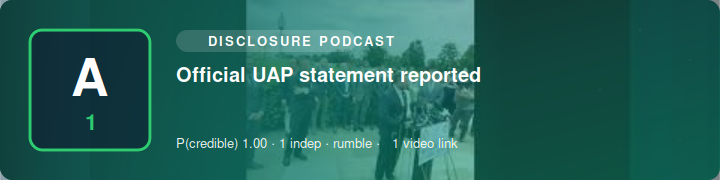
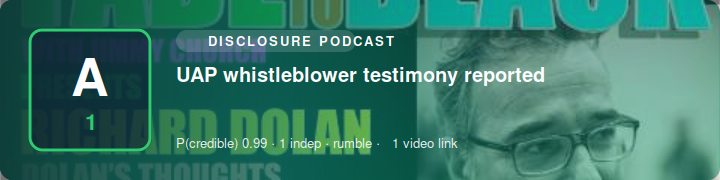
SITREP 2026-08-14 05:20 UTC

diff --git a/index.html b/index.html
@@ -1,1 +1,1 @@
-<!doctype html><meta charset=utf-8><title>Science Bob News — SITREP</title><style>body{font:16px/1.5 system-ui,sans-serif;max-width:760px;margin:2rem auto;padding:0 1rem;color:#111}h1{font-size:1.5rem}h2{margin-top:1.6rem;border-bottom:1px solid #ddd;padding-bottom:.2rem}ul{list-style:none;padding:0}li{margin:.9rem 0}.hl{font-weight:600}.meta{color:#555;font-size:.85rem}.src{font-size:.85rem}.vid{font-size:.85rem;margin-top:.15rem}.card{display:block;max-width:100%;height:auto;border-radius:8px;margin:.4rem 0 .5rem}.upd{background:#fde68a;padding:0 .3rem;border-radius:.2rem;font-size:.75rem}.sub{color:#777;font-size:.85rem}footer{color:#777;font-size:.8rem;margin-top:2rem;border-top:1px solid #ddd;padding-top:.6rem}</style><h1>🛸 Science Bob News</h1><div class="sub">UAP / UFO / USO SITREP · updated 2026-08-14 05:10 UTC · automated</div><h2>Corroborated</h2><ul><li><img class="card" src="https://n4hy.github.io/sciencebobnews-site/card_c_1.svg" alt="" width="720" height="180"><div class="hl">UAP report</div><div class="meta">reliability <b>A1</b> · P(credible)=1.0 · 2 independent source(s) · mastodon</div><div class="src"><a href="https://mastodon.online/@KilleansRow/117086761570315232">@KilleansRow@mastodon.online</a> · <a href="https://mastodon.linkerror.com/@photronicarts/117085058232230276">@photronicarts@mastodon.linkerror.com</a></div></li></ul><h2>Developing / unconfirmed</h2><ul><li><img class="card" src="https://n4hy.github.io/sciencebobnews-site/card_d_1.svg" alt="" width="720" height="180"><div class="hl">Official UAP statement reported (That)</div><div class="meta">reliability <b>A1</b> · P(credible)=1.0 · 1 independent source(s) · mastodon</div><div class="src"><a href="https://mastodon.au/@vibewire/117090074549881678">@vibewire@mastodon.au</a></div></li><li><img class="card" src="https://n4hy.github.io/sciencebobnews-site/card_d_2.svg" alt="" width="720" height="180"><div class="hl">UAP report</div><div class="meta">reliability <b>A1</b> · P(credible)=1.0 · 1 independent source(s) · mastodon</div><div class="src"><a href="https://mastodon.au/@vibewire/117087164265990637">@vibewire@mastodon.au</a></div></li><li><img class="card" src="https://n4hy.github.io/sciencebobnews-site/card_d_3.svg" alt="" width="720" height="180"><div class="hl">Official UAP statement reported</div><div class="meta">reliability <b>A1</b> · P(credible)=1.0 · 1 independent source(s) · mastodon</div><div class="src"><a href="https://mastodon.au/@vibewire/117089625413156296">@vibewire@mastodon.au</a></div></li><li><img class="card" src="https://n4hy.github.io/sciencebobnews-site/card_d_4.svg" alt="" width="720" height="180"><div class="hl">Official UAP statement reported</div><div class="meta">reliability <b>A1</b> · P(credible)=1.0 · 1 independent source(s) · rumble</div><div class="src"><a href="https://www.youtube.com/watch?v=VM8ZX9-ruUM">@podcast</a></div><div class="vid">📹 <a href="https://www.youtube.com/watch?v=VM8ZX9-ruUM">video</a></div></li><li><img class="card" src="https://n4hy.github.io/sciencebobnews-site/card_d_5.svg" alt="" width="720" height="180"><div class="hl">Unidentified submerged object (USO) reported</div><div class="meta">reliability <b>A1</b> · P(credible)=1.0 · 1 independent source(s) · mastodon</div><div class="src"><a href="https://mastodon.social/@ScienceBob/117091074699308374">@ScienceBob</a></div></li></ul><footer><b>Powered by Science Bob News.</b> Free to use with credit (see LICENSE). Headlines are factual restatements in the engine's own words; click sources for originals. Single-origin reposts collapse to one source; prosaic candidates flagged where offered.</footer>
+<!doctype html><meta charset=utf-8><title>Science Bob News — SITREP</title><style>body{font:16px/1.5 system-ui,sans-serif;max-width:760px;margin:2rem auto;padding:0 1rem;color:#111}h1{font-size:1.5rem}h2{margin-top:1.6rem;border-bottom:1px solid #ddd;padding-bottom:.2rem}ul{list-style:none;padding:0}li{margin:.9rem 0}.hl{font-weight:600}.meta{color:#555;font-size:.85rem}.src{font-size:.85rem}.vid{font-size:.85rem;margin-top:.15rem}.card{display:block;max-width:100%;height:auto;border-radius:8px;margin:.4rem 0 .5rem}.upd{background:#fde68a;padding:0 .3rem;border-radius:.2rem;font-size:.75rem}.sub{color:#777;font-size:.85rem}footer{color:#777;font-size:.8rem;margin-top:2rem;border-top:1px solid #ddd;padding-top:.6rem}</style><h1>🛸 Science Bob News</h1><div class="sub">UAP / UFO / USO SITREP · updated 2026-08-14 05:20 UTC · automated</div><h2>Corroborated</h2><ul><li><img class="card" src="https://n4hy.github.io/sciencebobnews-site/card_c_1.svg" alt="" width="720" height="180"><div class="hl">UAP report</div><div class="meta">reliability <b>A1</b> · P(credible)=1.0 · 2 independent source(s) · mastodon</div><div class="src"><a href="https://mastodon.online/@KilleansRow/117086761570315232">@KilleansRow@mastodon.online</a> · <a href="https://mastodon.linkerror.com/@photronicarts/117085058232230276">@photronicarts@mastodon.linkerror.com</a></div></li></ul><h2>Developing / unconfirmed</h2><ul><li><img class="card" src="https://n4hy.github.io/sciencebobnews-site/card_d_1.svg" alt="" width="720" height="180"><div class="hl">Official UAP statement reported (That)</div><div class="meta">reliability <b>A1</b> · P(credible)=1.0 · 1 independent source(s) · mastodon</div><div class="src"><a href="https://mastodon.au/@vibewire/117090074549881678">@vibewire@mastodon.au</a></div></li><li><img class="card" src="https://n4hy.github.io/sciencebobnews-site/card_d_2.svg" alt="" width="720" height="180"><div class="hl">UAP report</div><div class="meta">reliability <b>A1</b> · P(credible)=1.0 · 1 independent source(s) · mastodon</div><div class="src"><a href="https://mastodon.au/@vibewire/117087164265990637">@vibewire@mastodon.au</a></div></li><li><img class="card" src="https://n4hy.github.io/sciencebobnews-site/card_d_3.svg" alt="" width="720" height="180"><div class="hl">Official UAP statement reported</div><div class="meta">reliability <b>A1</b> · P(credible)=1.0 · 1 independent source(s) · mastodon</div><div class="src"><a href="https://mastodon.au/@vibewire/117089625413156296">@vibewire@mastodon.au</a></div></li><li><img class="card" src="https://n4hy.github.io/sciencebobnews-site/card_d_4.svg" alt="" width="720" height="180"><div class="hl">UAP whistleblower testimony reported</div><div class="meta">reliability <b>A1</b> · P(credible)=0.99 · 1 independent source(s) · rumble</div><div class="src"><a href="https://www.youtube.com/watch?v=7gRh5EYbNrQ">@podcast</a></div><div class="vid">📹 <a href="https://www.youtube.com/watch?v=7gRh5EYbNrQ">video</a></div></li><li><img class="card" src="https://n4hy.github.io/sciencebobnews-site/card_d_5.svg" alt="" width="720" height="180"><div class="hl">Unidentified submerged object (USO) reported</div><div class="meta">reliability <b>A1</b> · P(credible)=1.0 · 1 independent source(s) · mastodon</div><div class="src"><a href="https://mastodon.social/@ScienceBob/117091074699308374">@ScienceBob</a></div></li></ul><footer><b>Powered by Science Bob News.</b> Free to use with credit (see LICENSE). Headlines are factual restatements in the engine's own words; click sources for originals. Single-origin reposts collapse to one source; prosaic candidates flagged where offered.</footer>

diff --git a/sitrep.md b/sitrep.md
@@ -1,5 +1,5 @@
 # 🛸 Science Bob News — UAP / UFO / USO SITREP
-*Updated 2026-08-14 05:10 UTC · auto-generated · sources credited & linked · reliability ratings are automated, not editorial*
+*Updated 2026-08-14 05:20 UTC · auto-generated · sources credited & linked · reliability ratings are automated, not editorial*
 
 ## Corroborated
 
@@ -22,10 +22,10 @@
 3. Official UAP statement reported — reliability A1 · 1 source(s)  
    [@vibewire@mastodon.au](https://mastodon.au/@vibewire/117089625413156296)
 
-![Official UAP statement reported](https://n4hy.github.io/sciencebobnews-site/card_d_4.svg)
-4. Official UAP statement reported — reliability A1 · 1 source(s)  
-   [@podcast](https://www.youtube.com/watch?v=VM8ZX9-ruUM)  
-   📹 [video](https://www.youtube.com/watch?v=VM8ZX9-ruUM)
+![UAP whistleblower testimony reported](https://n4hy.github.io/sciencebobnews-site/card_d_4.svg)
+4. UAP whistleblower testimony reported — reliability A1 · 1 source(s)  
+   [@podcast](https://www.youtube.com/watch?v=7gRh5EYbNrQ)  
+   📹 [video](https://www.youtube.com/watch?v=7gRh5EYbNrQ)
 
 ![Unidentified submerged object (USO) reported](https://n4hy.github.io/sciencebobnews-site/card_d_5.svg)
 5. Unidentified submerged object (USO) reported — reliability A1 · 1 source(s)  
